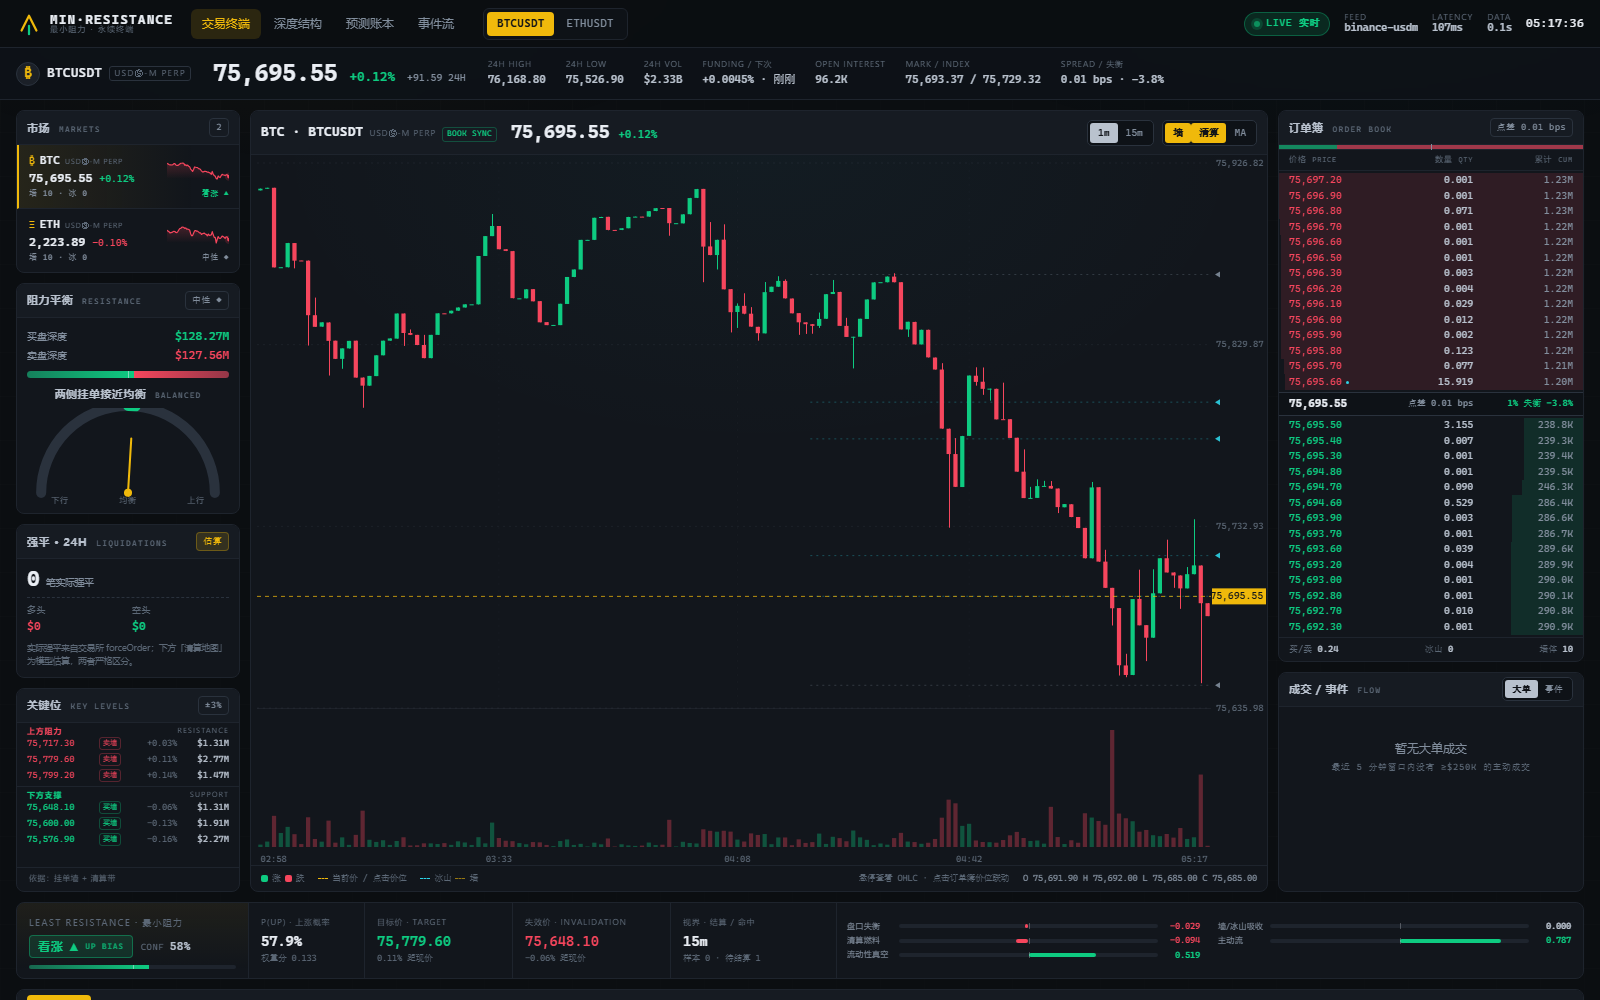
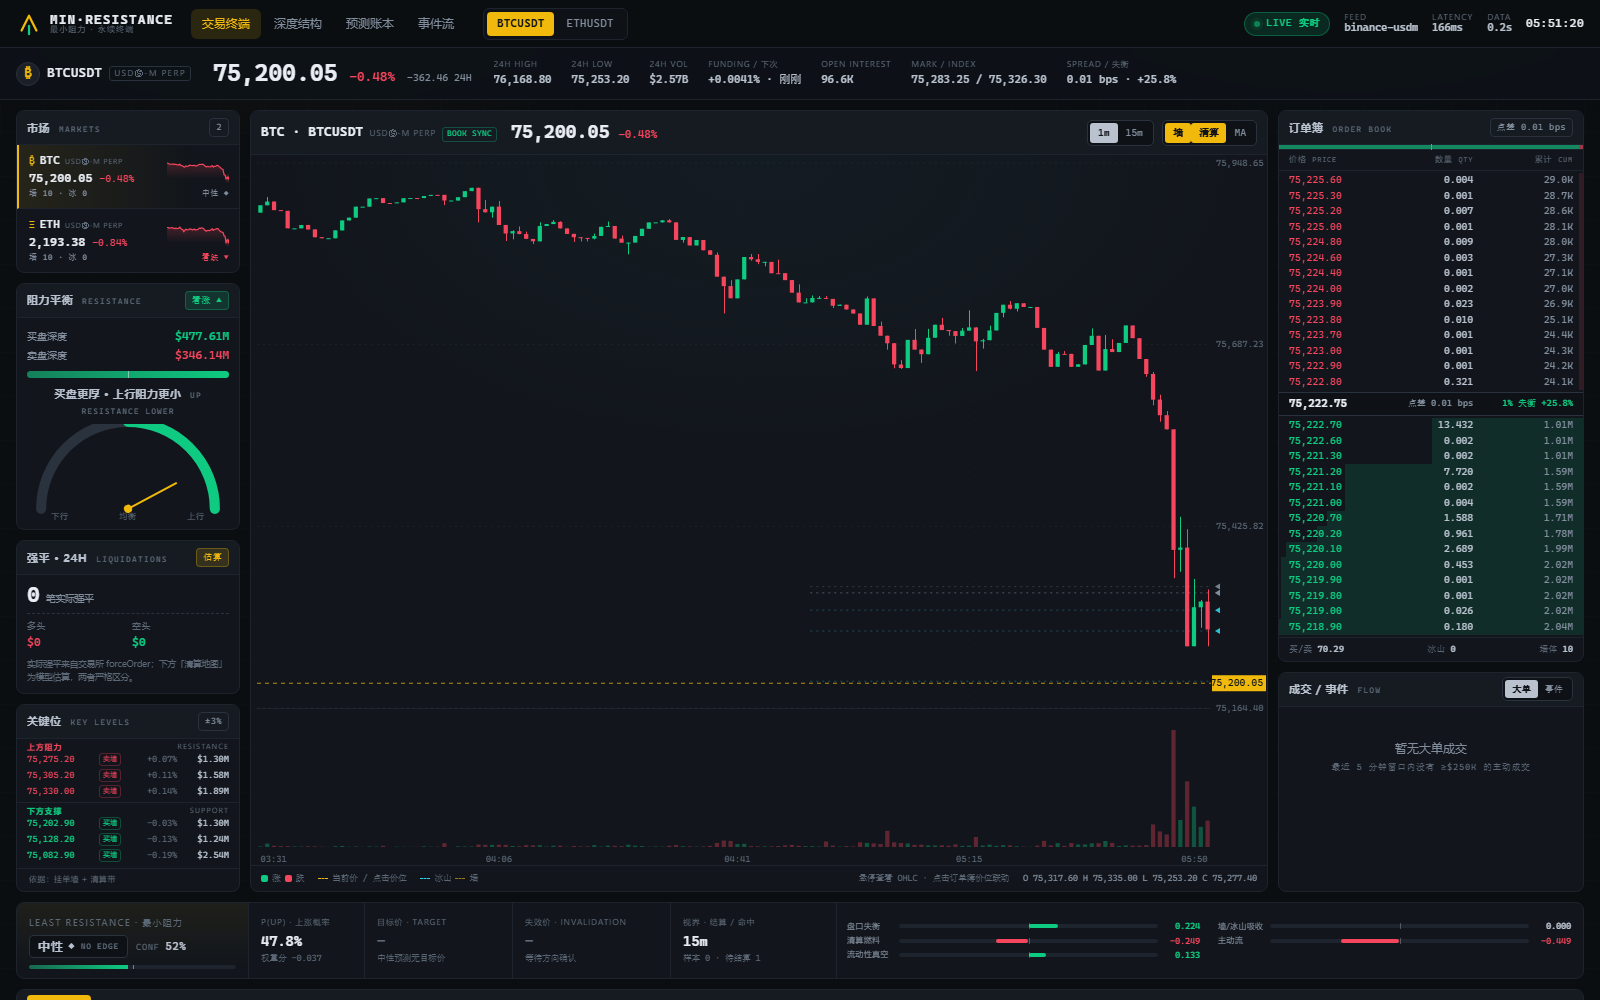
docs: record wall-mode A/B decision and window-based rule

diff --git a/scripts/compare_wall_modes.py b/scripts/compare_wall_modes.py
@@ -12,12 +12,18 @@ import json
 import sys
 import urllib.request
 
-MIN_SAMPLES = 20
+MIN_WINDOWS = 20
+MIN_BRIER_GAIN = 0.02
 
 
 def fetch(url: str) -> dict:
     with urllib.request.urlopen(url, timeout=8) as response:
         return json.load(response)
+
+
+def _resolved(stats: dict) -> int:
+    """Resolved windows: Brier is computed over these, including neutral forecasts."""
+    return max(0, int(stats.get("logged") or 0) - int(stats.get("pending") or 0))
 
 
 def _fmt(stats: dict) -> str:
@@ -27,27 +33,40 @@ def _fmt(stats: dict) -> str:
     rate_text = f"{rate * 100:.1f}%" if rate is not None else "—"
     brier_text = f"{brier:.4f}" if brier is not None else "—"
     return (
-        f"{stats.get('wall_mode', '?'):7s} samples={samples:3d} "
-        f"hit_rate={rate_text:>6s} brier={brier_text:>7s} "
-        f"pending={stats.get('pending', 0):2d}"
+        f"{stats.get('wall_mode', '?'):7s} windows={_resolved(stats):3d} "
+        f"dir_samples={samples:3d} hit_rate={rate_text:>6s} "
+        f"brier={brier_text:>7s} pending={stats.get('pending', 0):2d}"
     )
 
 
-def decide(barrier: dict, magnet: dict, min_samples: int = MIN_SAMPLES) -> str:
-    b_samples = barrier.get("samples") or 0
-    m_samples = magnet.get("samples") or 0
-    if b_samples < min_samples or m_samples < min_samples:
+def decide(active: dict, shadow: dict, min_windows: int = MIN_WINDOWS) -> str:
+    a_windows = _resolved(active)
+    s_windows = _resolved(shadow)
+    if a_windows < min_windows or s_windows < min_windows:
         return (
-            f"样本不足（barrier {b_samples}/{min_samples}, magnet {m_samples}/{min_samples}），"
-            "暂不切换默认值"
+            f"样本不足（{active.get('wall_mode')} {a_windows}/{min_windows}, "
+            f"{shadow.get('wall_mode')} {s_windows}/{min_windows}），暂不切换默认值"
         )
-    b_brier = barrier.get("brier")
-    m_brier = magnet.get("brier")
-    if b_brier is None or m_brier is None:
+    a_brier = active.get("brier")
+    s_brier = shadow.get("brier")
+    if a_brier is None or s_brier is None:
         return "Brier 缺失，暂不切换"
-    winner = "barrier" if b_brier < m_brier else "magnet"
-    delta = abs(b_brier - m_brier)
-    return f"Brier 更低者: {winner}（差距 {delta:.4f}）"
+    winner, loser = (active, shadow) if a_brier < s_brier else (shadow, active)
+    delta = abs(a_brier - s_brier)
+    if delta < MIN_BRIER_GAIN:
+        return (
+            f"Brier 差距仅 {delta:.4f} < {MIN_BRIER_GAIN:.2f}，"
+            "不足以证明优势，保留 barrier"
+        )
+    w_rate, l_rate = winner.get("hit_rate"), loser.get("hit_rate")
+    if w_rate is not None and l_rate is not None and w_rate < l_rate:
+        return f"Brier 更低但赢家命中率更差（{w_rate:.1%} vs {l_rate:.1%}），保留 barrier"
+    return (
+        f"采用 {winner.get('wall_mode')} 为默认值：Brier {winner.get('brier'):.4f} vs "
+        f"{loser.get('brier'):.4f}（差 {delta:.4f}），"
+        f"命中率 {w_rate if w_rate is None else f'{w_rate:.1%}'} vs "
+        f"{l_rate if l_rate is None else f'{l_rate:.1%}'}"
+    )
 
 
 def _pool(rows: list[dict]) -> dict:
@@ -84,10 +103,10 @@ def main() -> None:
     parser.add_argument("--url", default="http://127.0.0.1:8765/api/snapshot")
     parser.add_argument("--json", action="store_true", help="emit raw machine-readable rows")
     parser.add_argument(
-        "--min-samples",
+        "--min-windows",
         type=int,
-        default=MIN_SAMPLES,
-        help="resolved directional samples required on each side before deciding",
+        default=MIN_WINDOWS,
+        help="resolved prediction windows required on each side before deciding",
     )
     args = parser.parse_args()
 
@@ -109,7 +128,7 @@ def main() -> None:
         print(f"\n{symbol}")
         print("  " + _fmt(active))
         print("  " + _fmt(shadow))
-        print("  " + decide(active, shadow, args.min_samples))
+        print("  " + decide(active, shadow, args.min_windows))
     if args.json:
         print(json.dumps(rows, ensure_ascii=False, indent=2))
         return
@@ -119,7 +138,7 @@ def main() -> None:
     print("\nPOOLED（两个币合计）")
     print("  " + _fmt(pooled_active))
     print("  " + _fmt(pooled_shadow))
-    print("  " + decide(pooled_active, pooled_shadow, args.min_samples * 2))
+    print("  " + decide(pooled_active, pooled_shadow, args.min_windows * 2))
 
 
 if __name__ == "__main__":
